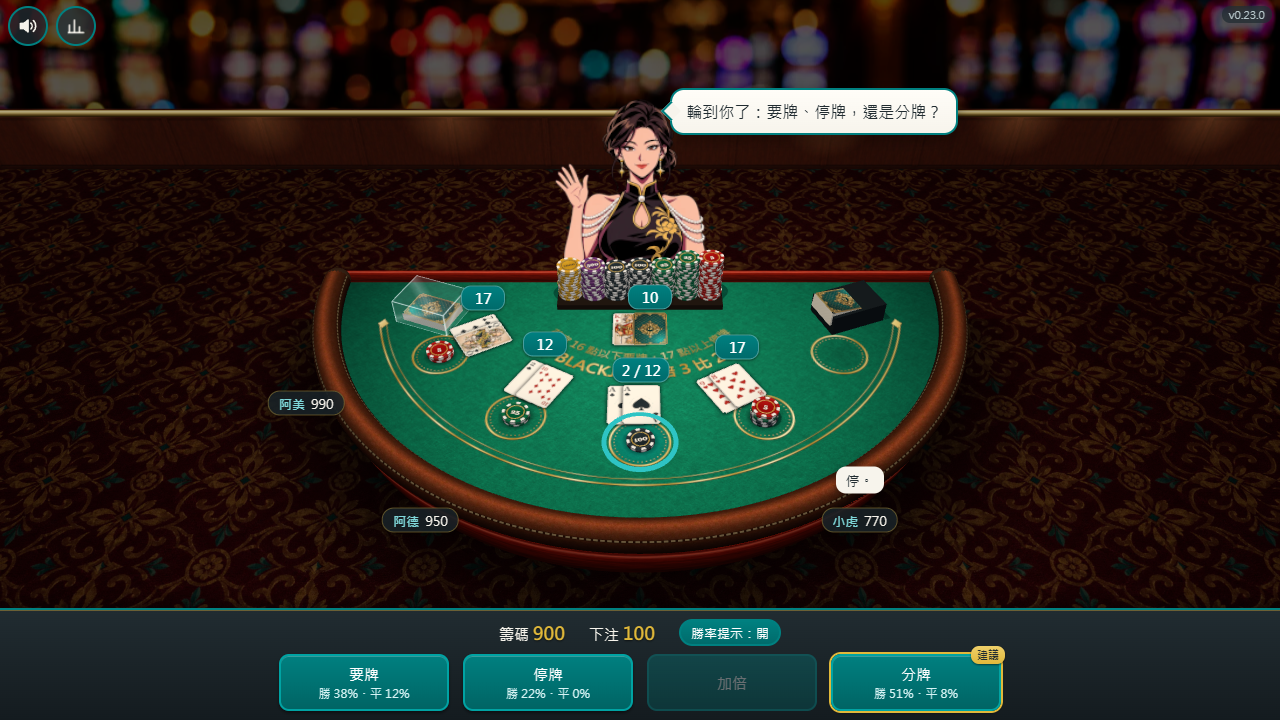
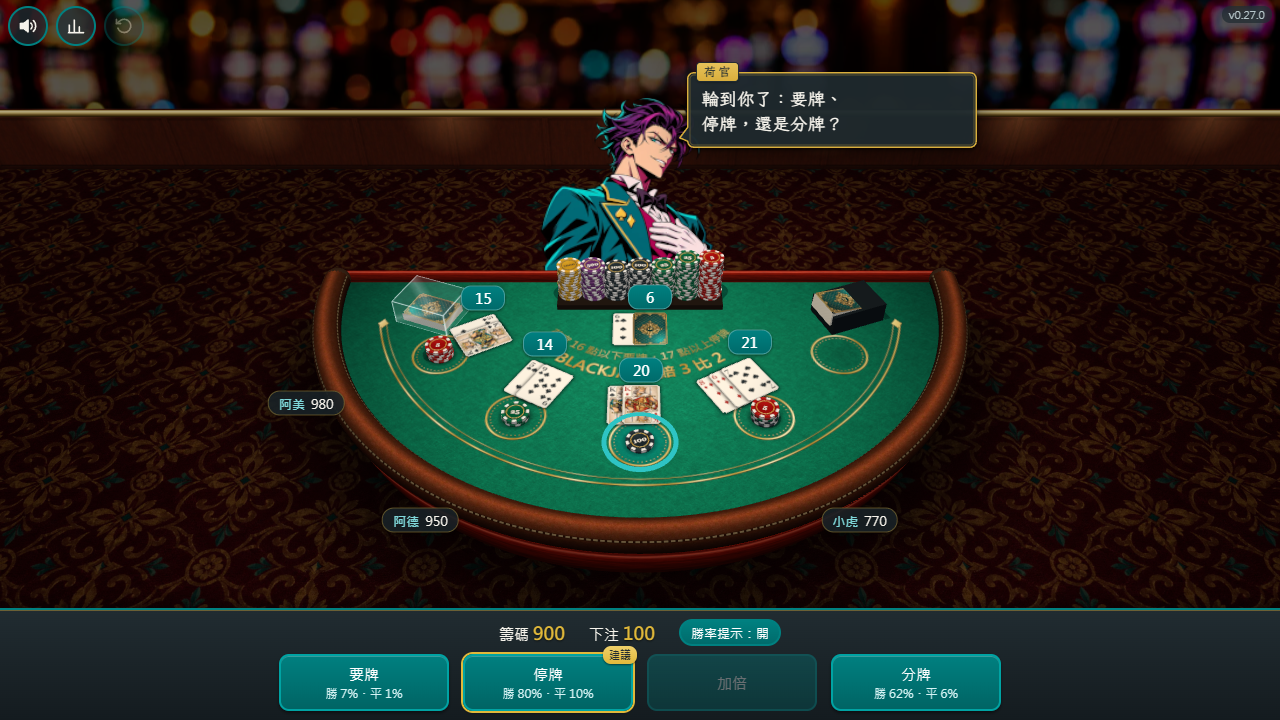
npm test 改成同時 2 支；README 截圖換成西裝荷官、自動檢查改成 376 項
同時 4 支在測試增加到 376 條、機器另有負載時，40 條 CDP 逾時；2 支全套 376 條全綠，約 22 分鐘。

diff --git a/README.md b/README.md
@@ -84,4 +84,4 @@
 
 ## 狀態
 
-v0.27.0（2026-11-18）：穿西裝的男荷官回來了，打開遊戲就是他；v0.23.0 的旗袍女荷官沒有拿掉，點荷官就換成她，再點換成舊版插畫，再點回到西裝荷官。之前看的是旗袍荷官的，這一版打開會先看到西裝荷官，點一下就換回旗袍。發牌時手和牌畫在籌碼前面（v0.26.0）只有旗袍荷官有。v0.26.0（2026-11-18）：在電腦和橫拿的手機上，荷官發牌時伸出來的手和那張牌不再被她面前的籌碼擋住，看得到她把牌遞出來。v0.25.0（2026-11-18）：喇叭和戰績旁邊多了一顆「籌碼重置」鈕（手機直拿時在左邊的拉頁裡），下注時按下去、在確認視窗按「重置」，籌碼就回到 1,000，戰績和同桌三位的籌碼不動；確認視窗和戰績打開時，後面的牌桌會變暗，點變暗的地方就關掉。v0.24.0（2026-11-18）：荷官的對話框換成深色底、金色細框，左上角掛著「荷官」小名牌，小尖角指著她的臉；字改成比較柔和的手寫楷體，同桌三位冒出來的小對白也是。v0.23.0（2026-11-18）：荷官換成新的插畫，是穿黑色旗袍、肩上掛著珍珠鍊的女荷官，待機、發牌、驚訝、得意、遺憾五種表情各一張，Blackjack 特效裡的大頭也是她；原本用插畫荷官的會直接看到新的，點荷官仍可換成舊版插畫。v0.22.0（2026-11-18）：地毯、荷官背後的木牆板、桌身的木頭、皮革扶手和綠色絨布換成新的插畫材質，絨布維持原本的顏色，佈景照舊壓暗、不搶牌桌。v0.21.1（2026-11-16）：手機直拿時，音效、戰績和版本號收進左邊的拉頁，點左邊緣的小把手才拉出來，荷官說的話不再被這幾顆按鈕擋住；畫面比較矮的手機上，荷官的對話框改放在臉的旁邊，不會蓋到他的頭。v0.21.0（2026-11-16）：J、Q、K 的人物、牌背、籌碼和荷官背後的大廳換成新的插畫，牌角的點數與花色、籌碼上的面額照舊清楚；桌上的籌碼面額都朝著你；電腦與橫拿的手機上，新的荷官放大到原本的 1.2 倍，臉看得更清楚。v0.20.0（2026-11-16）：荷官換成新的插畫，待機、發牌、驚訝、得意、遺憾五種表情各是一張圖，Blackjack 特效裡的大頭也是它；JOJO 風那款拿掉了，原本選它的會自動換成新荷官，點荷官仍可換成舊版插畫。v0.19.0（2026-11-07）：撲克牌與籌碼更有立體感：底下有柔和的影子，疊起來的牌看得出上下層，牌緣與籌碼邊緣有亮面與暗面。v0.18.1（2026-11-07）：牌局打到一半如果出錯，畫面會說「這一局出錯了」並請你重新整理，不再停在那裡不動；重新整理後這一局不算，籌碼回到開局前。v0.18.0（2026-11-07）：左上角多了戰績，記下打了幾局、輸贏、Blackjack 次數、最長連勝、籌碼最高點，以及你照基本策略打的比例，下次打開還在。v0.17.0（2026-11-07）：JOJO 風荷官多了光影：衣服、手套、肩甲看起來有厚度，凹處有陰影、邊緣有反光，金飾會發亮；換造型、表情都跟以前一樣。v0.16.0（2026-10-31）：點荷官可以換造型，會在 JOJO 風與舊版插畫之間切換，下次打開還記得。v0.15.0（2026-10-31）：荷官重畫成 JOJO 動畫風，亮暗對比更強，裝扮、表情、手勢全部換新，頭髮維持油頭。v0.14.2（2026-10-31）：手機雙指放大看牌時，放完手會重畫得更清楚，縮回去就恢復；牌的邊緣也不再有鋸齒。v0.14.1（2026-10-31）：要牌、停牌、加倍、分牌的按鈕加寬、一樣寬，間距拉開，手機上比較好按。v0.14.0（2026-10-31）：畫面全面精修：J、Q、K 有了人物、牌角的點數放大、牌背與籌碼重畫、絨布燙金、皮革桌緣、荷官多了細節、按鈕有質感；點數標籤移到牌的上方，不再蓋住牌角。手機也更省電：畫面沒動時不重畫，有動時一格的工作量少了一半以上；開頁比上一版多等約 0.2 秒（在電腦上量的）。v0.13.1（2026-10-28）：籌碼鈕超過剩下的籌碼時按下去就押上全部，不再反灰按不下去。v0.13.0（2026-10-28）：下注列多了 +1000、+2000，按鈕之間拉開間距，手機上分成兩排；加上發牌、翻牌、洗牌、收牌與籌碼的音效，左上角可以關掉。v0.12.3（2026-10-28）：關掉勝率提示時，動作按鈕不再縮小，按鈕上的字放大塞滿。v0.12.2（2026-10-28）：修好第二局起牌局中的「下注」多算上一局的注（押 200 顯示 300）；籌碼本來就扣對，玩法不變。v0.12.1（2026-10-28）：玩法跟 v0.12.0 一樣，開頁後第一次拿到 Blackjack、第一次按加倍時，特效不再頓一下；特效播放時也不再一直重畫底下的牌桌，比較省電。v0.12.0（2026-10-23）：拿到 Blackjack、荷官翻出 Blackjack、你按「加倍」時，多了一段蓋滿畫面的特效：荷官的大特寫、噴出來的籌碼、你的手把籌碼彈上桌。規則照同事試玩後定案的那組（下注不設上限、只有 A 分開後只補一張、分出來的 A 加 10 點牌算 Blackjack、荷官不偷看底牌，大家打完才開）。自動檢查 358 項全部通過（Windows 11 的 Edge；這一版跑的電腦沒裝 Chrome，Chrome 的那幾項上一次是 v0.16.0 跑過），包含自動對打（含分牌與再分、荷官最後翻出 Blackjack、分出來的 Blackjack）、三段特效（真的打一局確認會播、播完收乾淨、大字不壓到荷官的臉）、規則、勝率、版面（一個座位分成 8 手）、背景、存檔與載不起來時的訊息、牌與籌碼的影子（旁邊的絨布變暗、牌面不被影子蓋到）、手機省電（沒動不重畫、每格工作量不超標），以及音效（聽得到、不爆音、點過畫面才出聲、開關記得住）。勝率提示與實際抽牌模擬比對，一般的動作差距在 0.4% 以內、分牌的每一手在 0.5% 以內；「建議」與阿德用的基本策略表 540 格對照全部相同，分完又成對的 100 格也相同。上一次在網址上用桌機與手機尺寸各打兩局是 v0.26.0（2026-11-18，Edge），沒有錯誤。
+v0.27.0（2026-11-18）：穿西裝的男荷官回來了，打開遊戲就是他；v0.23.0 的旗袍女荷官沒有拿掉，點荷官就換成她，再點換成舊版插畫，再點回到西裝荷官。之前看的是旗袍荷官的，這一版打開會先看到西裝荷官，點一下就換回旗袍。發牌時手和牌畫在籌碼前面（v0.26.0）只有旗袍荷官有。v0.26.0（2026-11-18）：在電腦和橫拿的手機上，荷官發牌時伸出來的手和那張牌不再被她面前的籌碼擋住，看得到她把牌遞出來。v0.25.0（2026-11-18）：喇叭和戰績旁邊多了一顆「籌碼重置」鈕（手機直拿時在左邊的拉頁裡），下注時按下去、在確認視窗按「重置」，籌碼就回到 1,000，戰績和同桌三位的籌碼不動；確認視窗和戰績打開時，後面的牌桌會變暗，點變暗的地方就關掉。v0.24.0（2026-11-18）：荷官的對話框換成深色底、金色細框，左上角掛著「荷官」小名牌，小尖角指著她的臉；字改成比較柔和的手寫楷體，同桌三位冒出來的小對白也是。v0.23.0（2026-11-18）：荷官換成新的插畫，是穿黑色旗袍、肩上掛著珍珠鍊的女荷官，待機、發牌、驚訝、得意、遺憾五種表情各一張，Blackjack 特效裡的大頭也是她；原本用插畫荷官的會直接看到新的，點荷官仍可換成舊版插畫。v0.22.0（2026-11-18）：地毯、荷官背後的木牆板、桌身的木頭、皮革扶手和綠色絨布換成新的插畫材質，絨布維持原本的顏色，佈景照舊壓暗、不搶牌桌。v0.21.1（2026-11-16）：手機直拿時，音效、戰績和版本號收進左邊的拉頁，點左邊緣的小把手才拉出來，荷官說的話不再被這幾顆按鈕擋住；畫面比較矮的手機上，荷官的對話框改放在臉的旁邊，不會蓋到他的頭。v0.21.0（2026-11-16）：J、Q、K 的人物、牌背、籌碼和荷官背後的大廳換成新的插畫，牌角的點數與花色、籌碼上的面額照舊清楚；桌上的籌碼面額都朝著你；電腦與橫拿的手機上，新的荷官放大到原本的 1.2 倍，臉看得更清楚。v0.20.0（2026-11-16）：荷官換成新的插畫，待機、發牌、驚訝、得意、遺憾五種表情各是一張圖，Blackjack 特效裡的大頭也是它；JOJO 風那款拿掉了，原本選它的會自動換成新荷官，點荷官仍可換成舊版插畫。v0.19.0（2026-11-07）：撲克牌與籌碼更有立體感：底下有柔和的影子，疊起來的牌看得出上下層，牌緣與籌碼邊緣有亮面與暗面。v0.18.1（2026-11-07）：牌局打到一半如果出錯，畫面會說「這一局出錯了」並請你重新整理，不再停在那裡不動；重新整理後這一局不算，籌碼回到開局前。v0.18.0（2026-11-07）：左上角多了戰績，記下打了幾局、輸贏、Blackjack 次數、最長連勝、籌碼最高點，以及你照基本策略打的比例，下次打開還在。v0.17.0（2026-11-07）：JOJO 風荷官多了光影：衣服、手套、肩甲看起來有厚度，凹處有陰影、邊緣有反光，金飾會發亮；換造型、表情都跟以前一樣。v0.16.0（2026-10-31）：點荷官可以換造型，會在 JOJO 風與舊版插畫之間切換，下次打開還記得。v0.15.0（2026-10-31）：荷官重畫成 JOJO 動畫風，亮暗對比更強，裝扮、表情、手勢全部換新，頭髮維持油頭。v0.14.2（2026-10-31）：手機雙指放大看牌時，放完手會重畫得更清楚，縮回去就恢復；牌的邊緣也不再有鋸齒。v0.14.1（2026-10-31）：要牌、停牌、加倍、分牌的按鈕加寬、一樣寬，間距拉開，手機上比較好按。v0.14.0（2026-10-31）：畫面全面精修：J、Q、K 有了人物、牌角的點數放大、牌背與籌碼重畫、絨布燙金、皮革桌緣、荷官多了細節、按鈕有質感；點數標籤移到牌的上方，不再蓋住牌角。手機也更省電：畫面沒動時不重畫，有動時一格的工作量少了一半以上；開頁比上一版多等約 0.2 秒（在電腦上量的）。v0.13.1（2026-10-28）：籌碼鈕超過剩下的籌碼時按下去就押上全部，不再反灰按不下去。v0.13.0（2026-10-28）：下注列多了 +1000、+2000，按鈕之間拉開間距，手機上分成兩排；加上發牌、翻牌、洗牌、收牌與籌碼的音效，左上角可以關掉。v0.12.3（2026-10-28）：關掉勝率提示時，動作按鈕不再縮小，按鈕上的字放大塞滿。v0.12.2（2026-10-28）：修好第二局起牌局中的「下注」多算上一局的注（押 200 顯示 300）；籌碼本來就扣對，玩法不變。v0.12.1（2026-10-28）：玩法跟 v0.12.0 一樣，開頁後第一次拿到 Blackjack、第一次按加倍時，特效不再頓一下；特效播放時也不再一直重畫底下的牌桌，比較省電。v0.12.0（2026-10-23）：拿到 Blackjack、荷官翻出 Blackjack、你按「加倍」時，多了一段蓋滿畫面的特效：荷官的大特寫、噴出來的籌碼、你的手把籌碼彈上桌。規則照同事試玩後定案的那組（下注不設上限、只有 A 分開後只補一張、分出來的 A 加 10 點牌算 Blackjack、荷官不偷看底牌，大家打完才開）。自動檢查 376 項全部通過（Windows 11 的 Edge；這一版跑的電腦沒裝 Chrome，Chrome 的那幾項上一次是 v0.16.0 跑過），包含自動對打（含分牌與再分、荷官最後翻出 Blackjack、分出來的 Blackjack）、三段特效（真的打一局確認會播、播完收乾淨、大字不壓到荷官的臉）、規則、勝率、版面（一個座位分成 8 手）、背景、存檔與載不起來時的訊息、牌與籌碼的影子（旁邊的絨布變暗、牌面不被影子蓋到）、手機省電（沒動不重畫、每格工作量不超標），以及音效（聽得到、不爆音、點過畫面才出聲、開關記得住）。勝率提示與實際抽牌模擬比對，一般的動作差距在 0.4% 以內、分牌的每一手在 0.5% 以內；「建議」與阿德用的基本策略表 540 格對照全部相同，分完又成對的 100 格也相同。上一次在網址上用桌機與手機尺寸各打兩局是 v0.26.0（2026-11-18，Edge），沒有錯誤。

diff --git a/CLAUDE.md b/CLAUDE.md
@@ -8,7 +8,7 @@
 2. 里程碑、現在卡在哪、明確不做的事看 [目標路線圖.md](目標路線圖.md)。
 3. `app\js\core\` 是純邏輯：不准引用 `app\js\view\`、不准碰 DOM／Three.js／計時器、不准直接呼叫 `Math.random`。亂數由呼叫端傳入，探針才重現得了同一副牌；動畫要等的東西一律在 view 層等。每支 core 檔的外殼照 `app\js\core\version.js`：瀏覽器掛到 `window.BJK.<名稱>`，node 走 `module.exports`；有依賴的照 `game.js`（node 走 `require`、瀏覽器走 `BJK.<名稱>`，缺了當場擲「載入順序錯」），`index.html` 照依賴順序排。`tests\check_core_purity.js` 守這一條。
 4. `app\` 一律 classic script，不准 `type="module"`、`import`／`export`。2026-10-22 實測 Edge 與 Chrome 在 file:// 下 ES module 被 CORS 擋（同一頁走 http 正常），同事雙擊會一片空白。Three.js 因此由 `npm run build:three` 打包成全域 `THREE` 的 `app\lib\three.js`，不准手改。
-5. 改動時只跑相關的測試檔（`node --test tests/check_<對象>.js`，再縮用 `--test-name-pattern`）；全套 `npm test`（＝`node --test --test-concurrency=4 "tests/check_*.js"`；node 24 的 `--test` 給目錄會失敗，要給 glob；不設上限會同時開十幾個無頭瀏覽器、把整台電腦拖到不能用）約 19 分鐘，只在 push 前跑一次，README 的「自動檢查 N 項」等那次跑完再填。使用者 2026-10-28 嫌每次跑全套太久；CI 不開瀏覽器，push 前那次是唯一的全套。剛 clone 先 `npm ci`。會開無頭 Edge／Chrome，不搶焦點。
+5. 改動時只跑相關的測試檔（`node --test tests/check_<對象>.js`，再縮用 `--test-name-pattern`）；全套 `npm test`（＝`node --test --test-concurrency=2 "tests/check_*.js"`；node 24 的 `--test` 給目錄會失敗，要給 glob；不設上限會同時開十幾個無頭瀏覽器、把整台電腦拖到不能用，4 支在測試變多後也會逾時）約 22 分鐘，只在 push 前跑一次，README 的「自動檢查 N 項」等那次跑完再填。使用者 2026-10-28 嫌每次跑全套太久；CI 不開瀏覽器，push 前那次是唯一的全套。剛 clone 先 `npm ci`。會開無頭 Edge／Chrome，不搶焦點。
    1. 看畫面用 `node tools/shoot.js <前綴>`，桌機 1280×720 與手機 390×844 各一張、矮直式 390×720 拉頁收起與拉開各一張，落在 `tools\_shots\`；加 `--dealer` 改成荷官五種表情各一張，加 `--round` 改成照正常速度打一局、截下注／輪到你／結算／下一局四張，加 `--cards` 改成 J、Q、K、牌背與籌碼的貼圖原寸排一張（中間一排縮成手機上的大小），加 `--reset` 改成籌碼重置的確認視窗開著與按下重置之後（桌機、矮直式各兩張）外加矮直式戰績視窗開著一張；再加 `--qipao` 改用旗袍荷官、`--classic` 改用舊版荷官造型（不加是預設的西裝荷官）。
    2. 改了 core 的規則或它的測試之後跑 `npm run mutants`：先確認沒破壞的基準全綠，再在暫存複本植入 73 種錯誤，每一種都要有具名的測試變紅（不在 `npm test` 裡）。新增規則時也往 `tests\mutants.js` 的表加一列。
    3. 換了荷官原圖（一套一個資料夾：西裝 `tests\fixtures\dealer_art\`、旗袍 `dealer_art_qipao\`）或改了 `tools\make_dealer_art.js` 就重跑 `node tools/make_dealer_art.js`：兩套都寫進它產出的 `dealer_art.js`，沒重跑 `check_dealer_art.js` 會判過期。五官框與旗袍發牌那張前景層的多邊形是手量的（每套一份，在產生器的 `SETS`），換圖要重量，並逐張看它留的 `tools\_shots\art-<套>-<表情>-marks.png` 與 `art-qipao-deal-front-marks.png`。牌面人物、牌背、籌碼、大廳、佈景材質同一套：原圖在 `tests\fixtures\card_art\`、`chip_art\`、`room_art\`、`scene_art\`，重跑 `node tools/make_table_art.js` 寫進 `table_art.js`，沒重跑 `check_table_art.js` 判過期；大廳的構圖中心是手量的，換圖看 `tools\_shots\table-art-marks.png`。要換新的插畫（寫 GPT 提示詞到接上、測試、截圖）照專案 skill `gpt_art`（`.claude\skills\gpt_art\SKILL.md`）。改了對白（`say`／`aside`／`pop` 的字串、AI 名字）要重跑 `node tools/make_bubble_font.js`（原字型只在這台的 `tools\_fonts\`），沒重跑 `check_bubble_font.js` 判過期。
